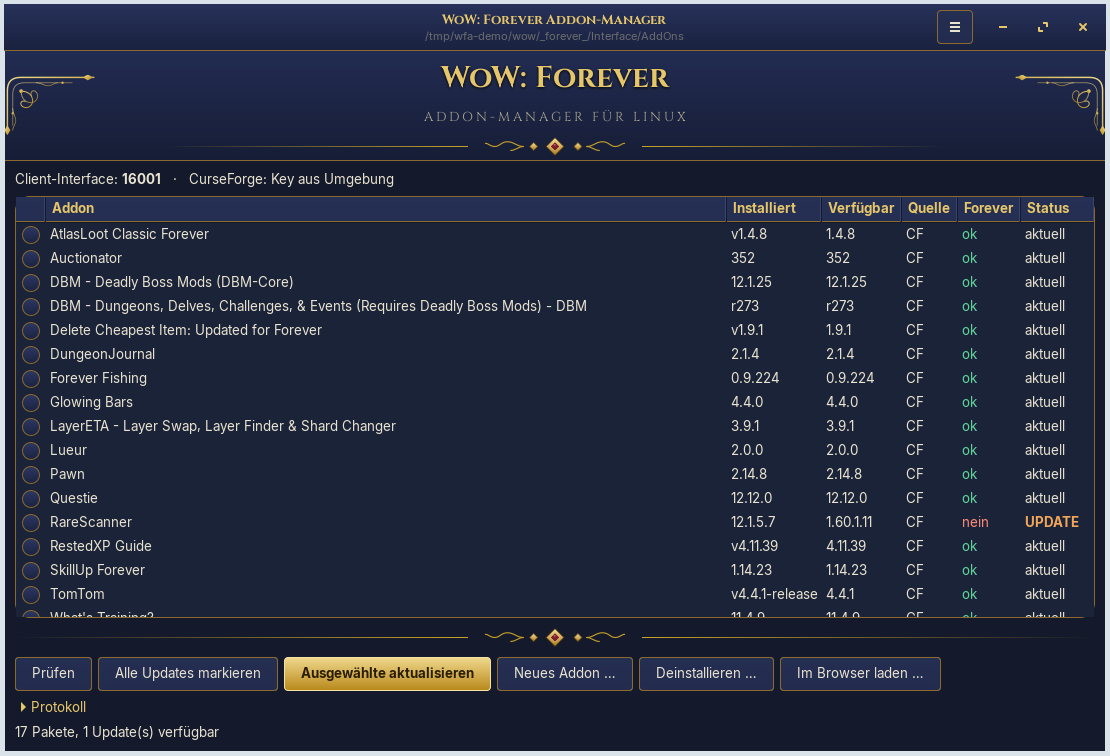
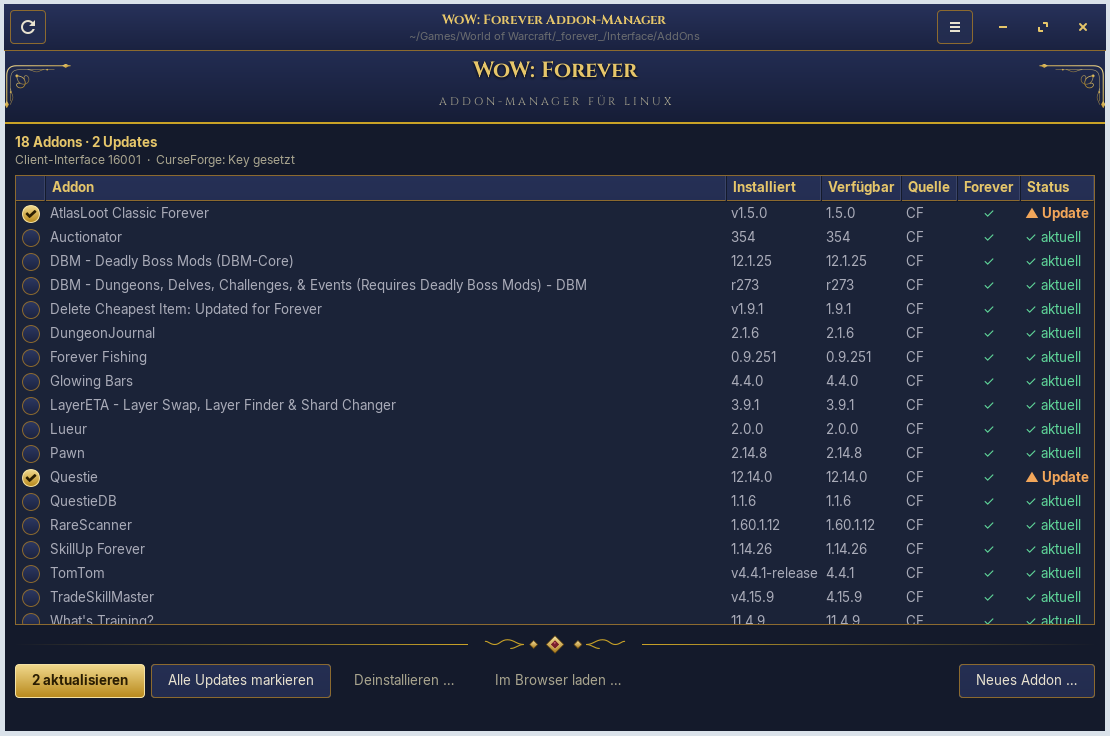
README überarbeiten, Screenshots für 0.2.0 erneuern
- README nach Themen gegliedert, Abschnitte zu Bedienung, Tray/Autostart,
  Auto-Update bei laufendem WoW und Programm-Updates ergänzt
- Neue Screenshots von Hauptfenster und Neues-Addon-Dialog
- Screenshot-Modus: Mauszeiger vor der Aufnahme in die Ecke setzen, damit
  kein Tooltip als schwarze Fläche im Bild landet

Changed region(s): [[0.0, 0.0, 1.0, 1.0], [0.8577, 0.625, 0.8883, 0.75], [0.8577, 0.5, 0.8883, 0.5625]]

diff --git a/wfa_gui.py b/wfa_gui.py
@@ -2,6 +2,7 @@
 from __future__ import annotations
 
 import argparse
+import contextlib
 import ctypes
 import os
 import subprocess
@@ -1666,6 +1667,11 @@ class App:
     def run_screenshots(self):
         a = self.args
         delay = int(a.screenshot_delay * 1000)
+
+        # Zeiger in die Ecke: steht er ueber einer Liste, oeffnet sich ein Tooltip, der im Bild als
+        # schwarze Flaeche landet (unter Xvfb steht der Zeiger anfangs in der Bildschirmmitte).
+        with contextlib.suppress(Exception):
+            Gdk.Display.get_default().get_default_seat().get_pointer().warp(self.win.get_screen(), 0, 0)
 
         def save(win, path):
             gw = win.get_window()

diff --git a/README.md b/README.md
@@ -1,60 +1,106 @@
 # WoW: Forever Addon-Manager (Linux)
 
-Ein inoffizieller Addon-Manager für **WoW: Forever** (Interface 16xxx) unter Linux. Er funktioniert mit Installationen unter Steam/Proton, Lutris, Wine, Bottles oder Heroic, durchsucht deinen `AddOns`-Ordner, erkennt deine Addons, zeigt verfügbare Updates an und installiert sie mit automatischem Backup.
+Ein inoffizieller Addon-Manager für **WoW: Forever** (Interface 16xxx) unter Linux. Er funktioniert mit Installationen unter Steam/Proton, Lutris, Wine, Bottles oder Heroic, erkennt die Addons in deinem `AddOns`-Ordner, zeigt verfügbare Updates an und installiert sie mit automatischem Backup, auf Wunsch auch still im Hintergrund aus der Menüleiste heraus.
 
 ![Hauptfenster](docs/screenshots/main.png)
 
 ## Funktionen
 
-- **CurseForge-Erkennung per Fingerprint**: Installierte Addons werden anhand ihrer Dateien erkannt, ganz ohne manuelle Zuordnung.
-- **Nur Forever-Dateien**: Es wird gezielt der Forever-Build eines Releases geladen und die `.toc` auf Interface 16xxx geprüft.
-- **GitHub als Ausweichquelle** für Addons, die als GitHub-Release veröffentlicht werden.
-- **Direkt-Download auch für gesperrte Addons**: Bieten Autoren ihr Addon nicht über die CurseForge-API an (z. B. DBM, Auctionator), lädt der Manager dieselbe Datei automatisch über den Download-Link der CurseForge-Website bzw. das CurseForge-CDN, ganz ohne Browser. Abschaltbar unter ☰ → Einstellungen.
-- **Tray und Autostart**: Optional startet der Manager mit dem System und läuft minimiert in der Menüleiste. Er prüft beim Start und stündlich (einstellbar) auf Updates und meldet sich nur, wenn es neue gibt („3 Updates verfügbar“). Rechtsklick auf das Symbol: Addons aktualisieren, Jetzt prüfen, App öffnen, Einstellungen, Protokoll, Beenden. Auf Wunsch installiert er Updates selbst, aber nur, solange WoW nicht läuft.
-- **Updates im Blick**: Nach jeder Prüfung sind alle veralteten Addons angehakt, ein Klick auf „N aktualisieren“ genügt. Der Changelog der neuen Version erscheint als Tooltip und per Rechtsklick. Einzelne Addons lassen sich per Rechtsklick „ignorieren“, sie werden dann nie vorgemerkt und nicht mitgezählt.
-- **Selbst-Update**: Der Manager prüft GitHub-Releases auf neue Versionen. Die Release-Datei ersetzt sich auf Wunsch selbst (nach SHA256-Prüfung gegen `SHA256SUMS`, die vorige Version bleibt als `.old` liegen), optional auch automatisch.
-- **Browser als letzter Ausweichweg**: Klappt auch der Direkt-Download nicht, öffnet sich die exakte Dateiseite (oder eine auf die Forever-Spielversion vorgefilterte Dateiliste) und der Manager wartet auf die neue Zip-Datei. Sind mehrere Addons markiert, werden die Browser-Downloads nacheinander abgearbeitet (jederzeit überspringen oder abbrechen), am Ende gibt es eine Übersicht.
-- **Download-Ordner aus dem Browser**: Der Manager liest die Download-Einstellung deines Standardbrowsers (Chrome/Chromium-Familie, Firefox-Familie inkl. Flatpak/Snap) und überwacht zusätzlich die Ordner der übrigen erkannten Browser sowie den XDG-Download-Ordner. Ein eigener Ordner lässt sich unter ☰ → Einstellungen festlegen. Aus den Browser-Profilen werden nur die Download-Einstellungen gelesen, sonst nichts.
-- **Klassischer Look**: dunkles Fantasy-Theme mit Goldakzenten und selbst gezeichneten Ornamenten, abschaltbar unter ☰ → Einstellungen („Klassisches Theme“; aus = Systemtheme).
-- **Neue Addons installieren**: über die durchblätterbare Liste aller Forever-Addons (sortierbar nach Downloads, Beliebtheit, Aktualität oder Name, mit Logo, Beschreibung und Screenshots im Tooltip), die Suche, eine CurseForge-Projekt-ID, `gh:owner/repo`, eine GitHub-URL, einen direkten Zip-Link oder eine lokale Zip-Datei.
-- **Backups und Wiederherstellen**: Ersetzte Ordner werden zuerst in einen Backup-Satz verschoben (die letzten 5 bleiben erhalten). `WTF`/SavedVariables werden nie angefasst.
-- **Deinstallieren**: Entfernt ein Addon-Paket, indem seine Ordner in einen Backup-Satz verschoben werden (über „Backups“ wiederherstellbar). Abhängigkeiten anderer Addons werden vorher angezeigt. Deine Einstellungen (`WTF`/SavedVariables) bleiben erhalten.
-- **Kompatibilitätsprüfung** vor jeder Installation, mit Warnung bei Paketen, die WoW: Forever nicht laden wird. Läuft WoW scheinbar gerade, erscheint ein Hinweis (die Erkennung ist eine Heuristik und kann danebenliegen).
+### Updates
+
+- **Erkennung per CurseForge-Fingerprint**: Installierte Addons werden anhand ihrer Dateien erkannt, ganz ohne manuelle Zuordnung. GitHub-Releases dienen als Ausweichquelle.
+- **Ein Klick genügt**: Nach jeder Prüfung sind alle veralteten Addons angehakt, „N aktualisieren“ spielt sie ein. Geprüft wird beim Start und jederzeit über das Refresh-Symbol oben links (<kbd>F5</kbd> oder <kbd>Strg</kbd>+<kbd>R</kbd>).
+- **Changelog vorab**: Der Changelog der neuen Version erscheint als Tooltip über der Zeile und per Rechtsklick → „Changelog …“.
+- **Addons ignorieren**: Per Rechtsklick → „Updates ignorieren“ wird ein Addon nie mehr vorgemerkt und nicht mitgezählt, etwa wenn du bewusst bei einer älteren Version bleibst.
+- **Nur Forever-Dateien**: Geladen wird gezielt der Forever-Build eines Releases, die `.toc` wird auf Interface 16xxx geprüft.
+
+### Downloads ohne Umweg
+
+- **Direkt-Download auch für gesperrte Addons**: Manche Autoren geben ihr Addon nicht für die CurseForge-API frei (z. B. DBM, Auctionator). Dann lädt der Manager dieselbe Datei automatisch über den Download-Link der CurseForge-Website bzw. das CurseForge-CDN, ganz ohne Browser. Abschaltbar unter ☰ → Einstellungen.
+- **Browser als letzter Ausweg**: Klappt auch das nicht, öffnet sich die exakte Dateiseite (oder eine auf die Forever-Spielversion vorgefilterte Dateiliste), und der Manager wartet auf die heruntergeladene Zip-Datei. Mehrere Addons werden nacheinander abgearbeitet (jederzeit überspringen oder abbrechen), am Ende gibt es eine Übersicht.
+- **Download-Ordner aus dem Browser**: Überwacht wird der Download-Ordner deines Standardbrowsers (Chrome/Chromium-Familie, Firefox-Familie inkl. Flatpak/Snap), dazu die Ordner der übrigen erkannten Browser und der XDG-Download-Ordner. Ein eigener Ordner lässt sich unter ☰ → Einstellungen festlegen. Aus den Browser-Profilen werden nur die Download-Einstellungen gelesen, sonst nichts.
+
+### Im Hintergrund
+
+- **Tray und Autostart**: Optional startet der Manager mit dem System und läuft minimiert in der Menüleiste. Er prüft beim Start und stündlich (einstellbar) und meldet sich nur, wenn es neue Updates gibt („3 Updates verfügbar“), sonst bleibt er still.
+- **Tray-Menü** (Rechtsklick auf das Symbol): „N Addons aktualisieren“, „Jetzt prüfen“, „App öffnen“, „Einstellungen …“, „Protokoll …“, „Beenden“. Ein Linksklick zeigt oder versteckt das Fenster.
+- **Auto-Update (optional)**: Der Manager installiert Updates selbst, aber nur, solange WoW nicht läuft. Läuft das Spiel, wartet er und versucht es alle 5 Minuten erneut.
+- **Selbst-Update**: Neue Versionen des Managers werden über die GitHub-Releases gemeldet. Die Release-Datei ersetzt sich auf Wunsch selbst, optional auch automatisch.
+
+### Neue Addons
+
+- **Alle Forever-Addons durchblättern**: sortierbar nach Downloads, Beliebtheit, Aktualität oder Name, mit Filterfeld und Seiten. Der Tooltip zeigt Logo, Beschreibung, Kategorien und Screenshots.
+- **Weitere Wege**: CurseForge-Projekt-ID, `gh:owner/repo`, GitHub-URL, direkter Zip-Link oder lokale Zip-Datei (Reiter „Direkt“).
 
 ![Neues Addon installieren](docs/screenshots/new-addon.png)
 
+### Sicherheit
+
+- **Backups und Wiederherstellen**: Ersetzte Ordner werden zuerst in einen Backup-Satz verschoben (die letzten 5 bleiben erhalten). `WTF`/SavedVariables werden nie angefasst.
+- **Deinstallieren**: Die Ordner eines Addon-Pakets wandern in einen Backup-Satz (über ☰ → „Backups“ wiederherstellbar). Abhängigkeiten anderer Addons werden vorher angezeigt.
+- **Kompatibilitätsprüfung** vor jeder Installation, mit Warnung bei Paketen, die WoW: Forever nicht laden wird. Läuft WoW scheinbar gerade, erscheint ein Hinweis (die Erkennung ist eine Heuristik und kann danebenliegen).
+
 ## Download (einfachster Weg)
 
-1. Lade `wow-forever-addon-manager-x86_64-linux` aus dem [neuesten Release](https://github.com/m3rtl/wow-forever-addon-manager-linux/releases/latest) herunter (prüfbar mit `SHA256SUMS`).
+1. Lade `wow-forever-addon-manager-x86_64-linux` aus dem [neuesten Release](https://github.com/m3rtl/wow-forever-addon-manager-linux/releases/latest) herunter (prüfbar mit `sha256sum -c SHA256SUMS`).
 2. Ausführbar machen und starten:
    ```sh
    chmod +x wow-forever-addon-manager-x86_64-linux
    ./wow-forever-addon-manager-x86_64-linux
    ```
-3. Optional: Menü ☰ → „Startmenü-Eintrag anlegen“ fügt den Manager deinem Anwendungsmenü hinzu (alternativ mit `--install-desktop-entry` starten).
+3. Optional: ☰ → „Startmenü-Eintrag anlegen“ fügt den Manager deinem Anwendungsmenü hinzu (alternativ mit `--install-desktop-entry` starten).
 
-Die Datei wird auf Ubuntu 22.04 gebaut (benötigt glibc 2.35 oder neuer) und bringt Python und GTK selbst mit. Auf anderen oder älteren Distributionen läuft sie eventuell nicht; dann die Quellcode-Version nutzen (für die GUI `python3-gi` und GTK 3, der Kommandozeilenmodus kommt ohne aus).
+Die Datei wird auf Ubuntu 22.04 gebaut (benötigt glibc 2.35 oder neuer) und bringt Python und GTK selbst mit. Auf anderen oder älteren Distributionen läuft sie eventuell nicht; dann die Quellcode-Version nutzen.
+
+## Bedienung
+
+| Was | Wo |
+| --- | --- |
+| Auf Updates prüfen | Refresh-Symbol oben links, <kbd>F5</kbd>, <kbd>Strg</kbd>+<kbd>R</kbd> |
+| Markierte aktualisieren | „N aktualisieren“ unten links |
+| Changelog, Ignorieren, Seite/Ordner öffnen, Browser-Download, Deinstallieren | Rechtsklick auf eine Zeile (oder Menütaste) |
+| Protokoll, Backups, Einstellungen, Programm-Updates, Beenden | ☰-Menü oben rechts |
+
+## Tray, Autostart und Updates im Hintergrund
+
+Einschalten unter ☰ → Einstellungen, Bereich „Hintergrund“:
+
+- **Beim Systemstart im Tray starten** legt `~/.config/autostart/wow-forever-addon-manager.desktop` an (startet mit `--tray`).
+- **Fenster schließen minimiert in den Tray** (Standard: an). Beenden dann über das Tray-Menü oder ☰ → „Beenden“.
+- **Prüfintervall** in Minuten (Standard: 60).
+- **Updates automatisch installieren (nur wenn WoW nicht läuft)** (Standard: aus).
+
+Warum nicht während WoW läuft? Das Spiel liest Addons beim Einloggen und bei `/reload`. Wird genau dann ein Ordner ausgetauscht oder haben sich Abhängigkeiten zwischen Addons geändert, lädt WoW einen halbfertigen Stand. Deshalb wartet das Auto-Update, bis das Spiel beendet ist.
+
+Das Tray-Symbol braucht einen StatusNotifier-Host: KDE, Xfce, Cinnamon, MATE und Budgie haben einen, unter GNOME die Erweiterung „AppIndicator and KStatusNotifierItem Support“ (bei Ubuntu und Zorin vorinstalliert). Ohne Tray schließt das Fenster ganz normal. Ein zweiter Start des Programms holt das laufende Fenster nach vorn.
+
+## Programm-Updates
+
+Der Manager prüft die GitHub-Releases beim Start und im Tray-Betrieb höchstens alle 12 Stunden. Gibt es eine neue Version, erscheint ein Hinweis im Fenster bzw. eine Benachrichtigung aus dem Tray, mit „Aktualisieren“, „Details“ oder „Überspringen“.
+
+- **Release-Datei**: ersetzt sich selbst, aber nur nach erfolgreicher SHA256-Prüfung gegen `SHA256SUMS`. Die vorige Version bleibt als `<datei>.old` daneben liegen. Mit „Programm-Updates automatisch installieren“ geschieht das ohne Nachfrage.
+- **Quellcode-Version**: Es gibt nur einen Hinweis mit Link zur Release-Seite.
+
+Beides lässt sich unter ☰ → Einstellungen abschalten.
 
 ## Aus dem Quellcode starten
 
-Voraussetzungen: Python 3.10 oder neuer. Für die GUI zusätzlich `python3-gi` und GTK 3 (`gir1.2-gtk-3.0`). Der Kommandozeilenmodus braucht nur die Standardbibliothek.
+Voraussetzungen: Python 3.10 oder neuer. Für die GUI zusätzlich `python3-gi` und GTK 3 (`gir1.2-gtk-3.0`). Der Kommandozeilenmodus braucht nur die Standardbibliothek. Für Tray und Benachrichtigungen sind keine weiteren Pakete nötig (sie laufen direkt über D-Bus).
 
 ```sh
 ./start.sh                 # GUI (ohne Display / PyGObject automatisch Kommandozeile)
+./start.sh --tray          # minimiert im Tray starten (so startet auch der Autostart-Eintrag)
 ./start.sh --cli           # interaktive Kommandozeile
 ./start.sh --check         # nur die Tabelle ausgeben
 ./start.sh --check --addons-dir PFAD
-./start.sh --tray          # minimiert im Tray starten (so startet auch der Autostart-Eintrag)
 ```
-
-Den Autostart schaltest du unter ☰ → Einstellungen → „Beim Systemstart im Tray starten“ ein (legt `~/.config/autostart/wow-forever-addon-manager.desktop` an). Das Tray-Symbol braucht einen StatusNotifier-Host: KDE, Xfce, Cinnamon, MATE und Budgie haben einen, unter GNOME die Erweiterung „AppIndicator and KStatusNotifierItem Support“ (bei Ubuntu und Zorin vorinstalliert). Ohne Tray schließt das Fenster ganz normal.
 
 Die Einzeldatei selbst bauen: `./build.sh` (Ergebnis in `dist/`).
 
 ## CurseForge-API-Key
 
 Kostenlos unter <https://console.curseforge.com>. Eintragen unter ☰ → Einstellungen oder über die Umgebungsvariable `CF_API_KEY` (hat Vorrang). Ohne Key lassen sich nur GitHub-basierte und manuell zugeordnete Pakete prüfen.
-Manche Keys dürfen die Suche nicht nutzen; dann helfen die Liste „Beliebt“, eine Projekt-ID oder die Suche im Browser.
+Manche Keys dürfen die Suche nicht nutzen; dann zeigt „Neues Addon“ die Liste der vorgestellten Addons, und es helfen eine Projekt-ID oder die Suche im Browser.
 
 ## Wo Daten gespeichert werden
 
@@ -64,7 +110,7 @@ Manche Keys dürfen die Suche nicht nutzen; dann helfen die Liste „Beliebt“,
 
 ## Datenschutz
 
-Dein API-Key wird nur lokal in `config.json` gespeichert (Rechte 0600) und ist nie Teil dieses Repositorys. Das Programm spricht nur mit der CurseForge-API, der CurseForge-Website (Download-Link), dem CurseForge-CDN, GitHub (auch für die eigene Update-Prüfung) und den Download-Servern der Pakete, die du installierst. Keine Telemetrie.
+Dein API-Key wird nur lokal in `config.json` gespeichert (Rechte 0600) und ist nie Teil dieses Repositorys. Das Programm spricht nur mit der CurseForge-API, der CurseForge-Website (Download-Link), dem CurseForge-CDN (Downloads, Logos, Screenshots), GitHub (Addons und die eigene Update-Prüfung) und den Download-Servern der Pakete, die du installierst. Keine Telemetrie.
 
 ## Kompatibilitätsregeln
 
@@ -72,7 +118,7 @@ Das Client-Interface wird aus deiner Installation gelesen (derzeit 16001). Für 
 
 ## Schrift und Grafiken
 
-Die Titelschrift ist [Cinzel](https://github.com/NDISCOVER/Cinzel) unter der SIL Open Font License 1.1 (`assets/fonts/cinzel/OFL.txt`). Sie wird zur Laufzeit nur für dieses Programm registriert; ohne sie wird eine Ersatz-Serifenschrift verwendet. Alle Ornamente sind eigene Zeichnungen; es werden keine Logos, Grafiken oder Schriften von Blizzard verwendet.
+Die Titelschrift ist [Cinzel](https://github.com/NDISCOVER/Cinzel) unter der SIL Open Font License 1.1 (`assets/fonts/cinzel/OFL.txt`). Sie wird zur Laufzeit nur für dieses Programm registriert; ohne sie wird eine Ersatz-Serifenschrift verwendet. Alle Ornamente sind eigene Zeichnungen; es werden keine Logos, Grafiken oder Schriften von Blizzard verwendet. Das klassische Theme lässt sich unter ☰ → Einstellungen abschalten (dann gilt das Systemtheme).
 
 ## Haftungsausschluss
 
